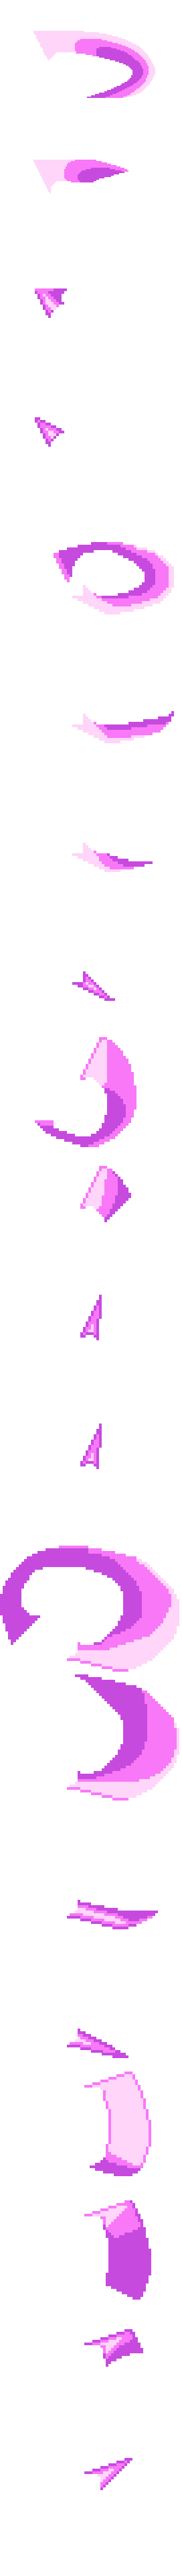
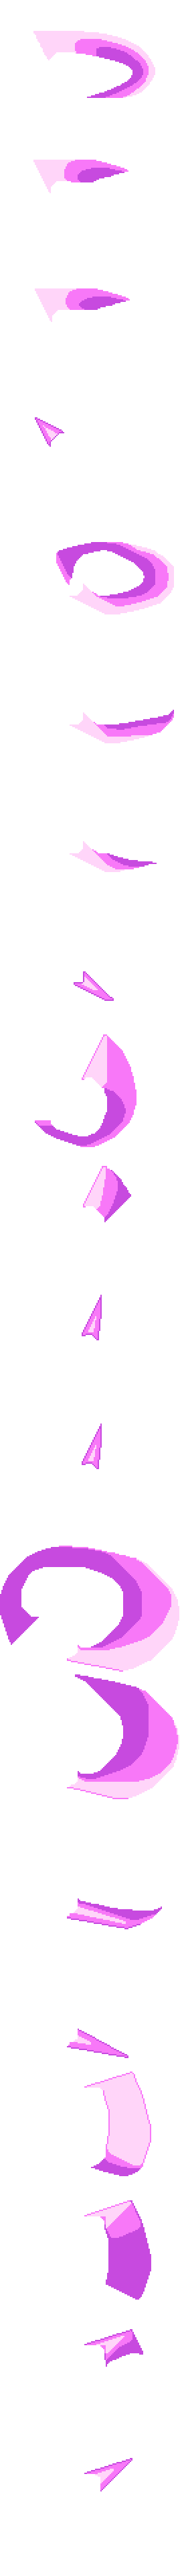
IT'S FINALLY DONE!!!

diff --git a/Projectiles/Melee/OmegaSword/MessiahRanbu.cs b/Projectiles/Melee/OmegaSword/MessiahRanbu.cs
@@ -28,8 +28,8 @@ namespace ShardsOfAtheria.Projectiles.Melee.OmegaSword
 
         public override void SetDefaults()
         {
-            Projectile.width = 384;
-            Projectile.height = 384;
+            Projectile.width = 192;
+            Projectile.height = 192;
             Projectile.aiStyle = 75;
             Projectile.friendly = true;
             Projectile.penetrate = -1;
@@ -39,8 +39,8 @@ namespace ShardsOfAtheria.Projectiles.Melee.OmegaSword
             Projectile.localNPCHitCooldown = 12;
             Projectile.timeLeft = 30;
 
-            DrawOffsetX = -160;
-            DrawOriginOffsetX = 80;
+            DrawOffsetX = -80;
+            DrawOriginOffsetX = 40;
         }
 
         // Ranbu pattern: 1, 2, 3, 2, 4, 3, 5
@@ -52,7 +52,7 @@ namespace ShardsOfAtheria.Projectiles.Melee.OmegaSword
 
             Player player = Main.player[Projectile.owner];
             var anchorChip = ToggleableTool.GetInstance<AnchorChip>(player);
-            bool jump = anchorChip == null && !anchorChip.Active;
+            bool jump = anchorChip == null || !anchorChip.Active;
             if (jump && combo == 7 && !launchPlayer)
             {
                 launchPlayer = true;
@@ -64,7 +64,7 @@ namespace ShardsOfAtheria.Projectiles.Melee.OmegaSword
             {
                 vector = Main.MouseWorld - player.Center;
                 vector.Normalize();
-                vector *= 140f;
+                vector *= 70f;
                 Projectile.velocity = vector;
                 Projectile.direction = (Main.MouseWorld.X > player.Center.X).ToDirectionInt();
             }
@@ -73,13 +73,13 @@ namespace ShardsOfAtheria.Projectiles.Melee.OmegaSword
             Projectile.rotation = vector.ToRotation();
             if (Projectile.direction == 1)
             {
-                DrawOffsetX = -160;
-                DrawOriginOffsetX = 80;
+                DrawOffsetX = -80;
+                DrawOriginOffsetX = 40;
             }
             else
             {
                 DrawOffsetX = 0;
-                DrawOriginOffsetX = -80;
+                DrawOriginOffsetX = -40;
                 Projectile.rotation += MathHelper.Pi;
             }
             Projectile.netUpdate = true;